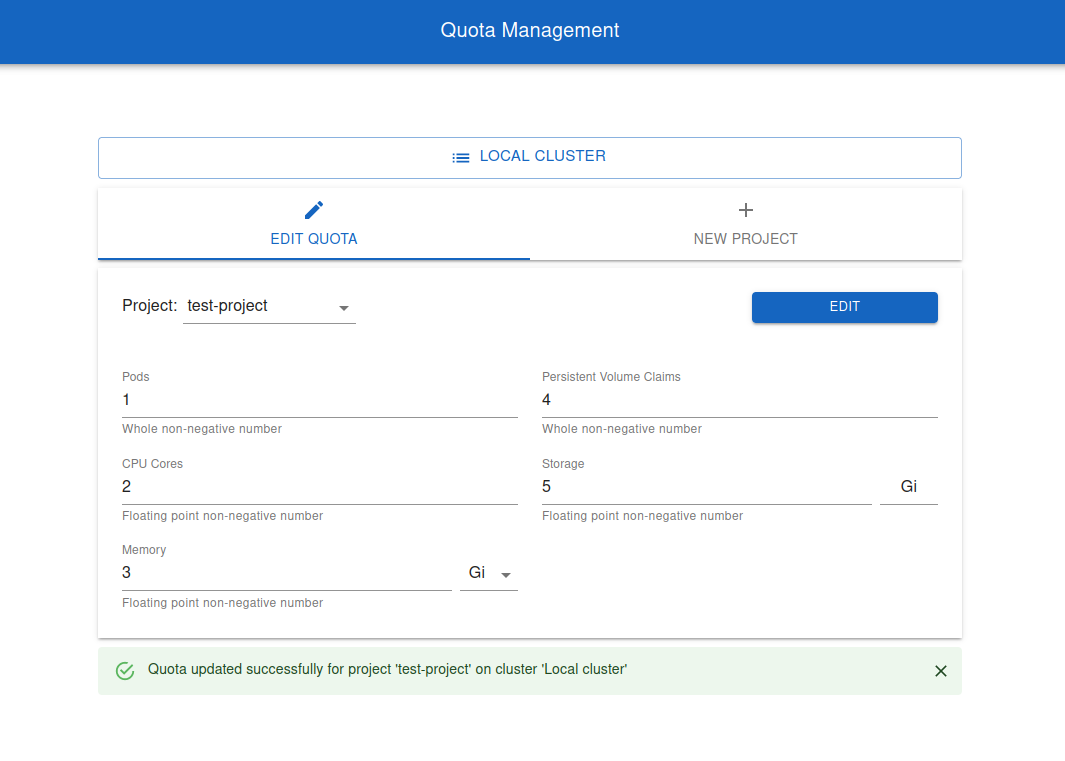
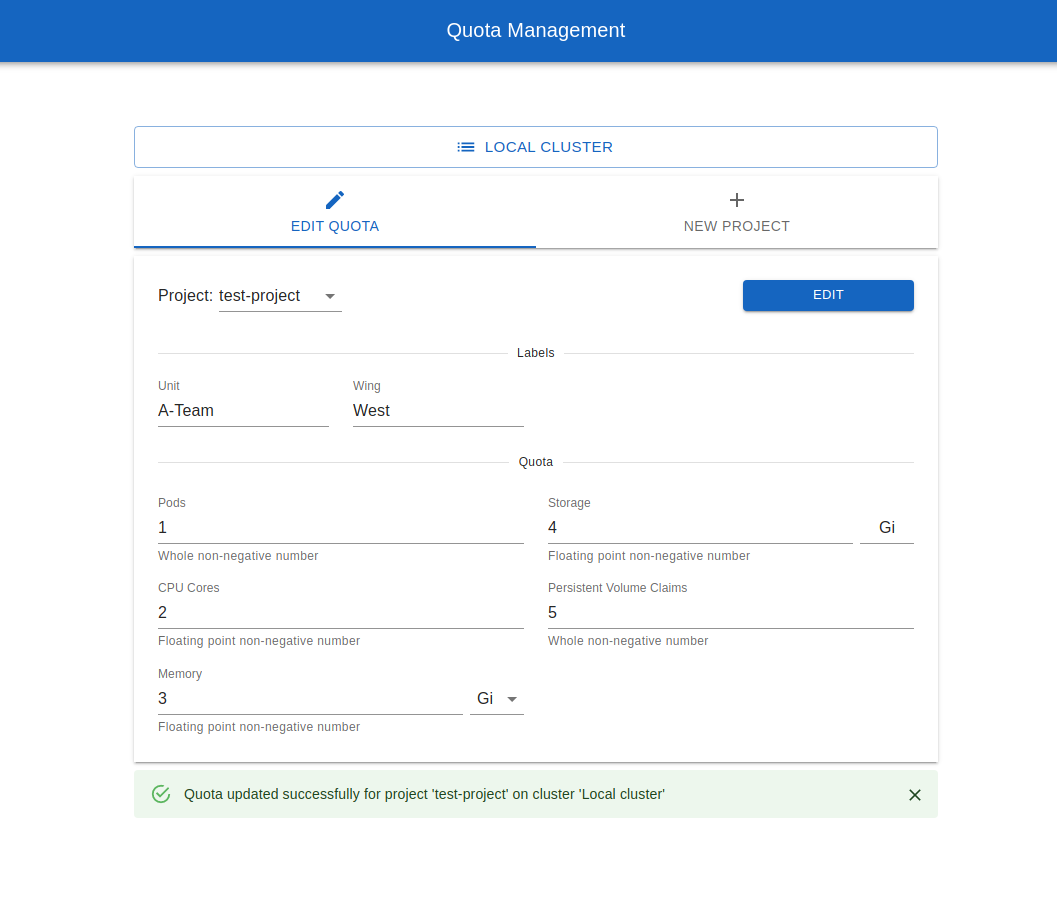
docs(README): persistent logging and namespace labeling docs

diff --git a/README.md b/README.md
@@ -13,7 +13,8 @@ OpenShift application for easy management of resources for projects located with
 - Full schema validation on client and server
 - Clear distinction between development and production clusters
 - Quota managers do not carry the RBAC permissions, the application itself performs the actions
-- Each request is logged accordingly
+- Each request is logged accordingly and can be persisted
+- Optional namespace labeling
 
 ## Deployment
 
@@ -41,22 +42,24 @@ Before creating the application manifest, configure its behavior to match your e
 Edit the resulting manifest using `vim quota-management.yaml` command. Objects of interest:
 
 - Group: users in this group are allowed to access the application, edit quota and create new projects. Add relevant users to the list (as they appear in the output of `oc get users`)
-- ConfigMap (quota-scheme): this scheme tells the application which ResourceQuota objects and which fields within them can be edited.
+- ConfigMap (quota-scheme): this scheme tells the application which ResourceQuota objects and which fields within them can be edited. It also allows for optional namespace labeling.
   Here is how this dictionary works:
 
-  - 1st level keys: ResourceQuota objects by that name that exist in the namespace
-    - 2nd level keys: fields that are present in `.spec.hard` of their ResourceQuota object
-        - __name__: display name for the current field
-        - __units__: allowed units (Mi, Gi, etc.) for the current field. Can be blank (pods, pvcs), quota unit (Memory, Storage, CPU), or a list of quota units to choose from
-        - __type__: data type for the current field (can only be "int" or "float")
+  - __labels__: dictionary of string:string key-value pairs where the key is the label key and value is display name for that label in UI. Leave the dictionary empty to disable the feature.
+  - __quota__: dictionary of string:object key-value pairs which work as described below:
+    - 1st level keys: ResourceQuota objects by that name that exist in the namespace
+      - 2nd level keys: fields that are present in `.spec.hard` of their ResourceQuota object
+          - __name__: display name for the current field
+          - __units__: allowed units (Mi, Gi, etc.) for the current field. Can be blank (pods, pvcs), quota unit (Memory, Storage, CPU), or a list of quota units to choose from
+          - __type__: data type for the current field (can only be "int" or "float")
 
-  Quota Management assumes that these objects and fields within them are defined in the default project request template of each managed cluster.
+  Quota Management assumes that `quota` objects and fields within them are defined in the default project request template of each managed cluster.
 
 - ConfigMap (ca-bundle): CA certificates that this application trusts
 - Secret: clusters that Quota Management can manage. Each key in the secret represents a cluster and value for each key must be a dictionary with the following fields:
 
   - __displayName__: display name for the cluster
-  - __api__: full API URL for the remote cluster (including "https://" and port)
+  - __api__: full API URL for the remote cluster ("https://api-host:port")
   - __production__: boolean which tells the application whether the cluster is production
   - __token__: bearer token used to perform management on remote cluster
 
@@ -68,6 +71,15 @@ Edit the resulting manifest using `vim quota-management.yaml` command. Objects o
 - Deployment/Service/Route: the application itself. Generally should not be of interest
 
 Now deploy the manifest: `oc create -f quota-management.yaml`
+
+### Persistent logging
+
+Quota Management can persist audit, debug and warning logs to a persistent volume. Here is how you can configure it:
+- Create an RWX PVC in the application namespace
+- Mount in to the pod by editing the deployment object
+- Set value for the `LOG_STORAGE` environment variable within the deployment object to the mount path
+
+Logs can be read by issuing the following command: `oc exec svc/quota-management -n quota-management -- logs`
 
 ## Development
 
